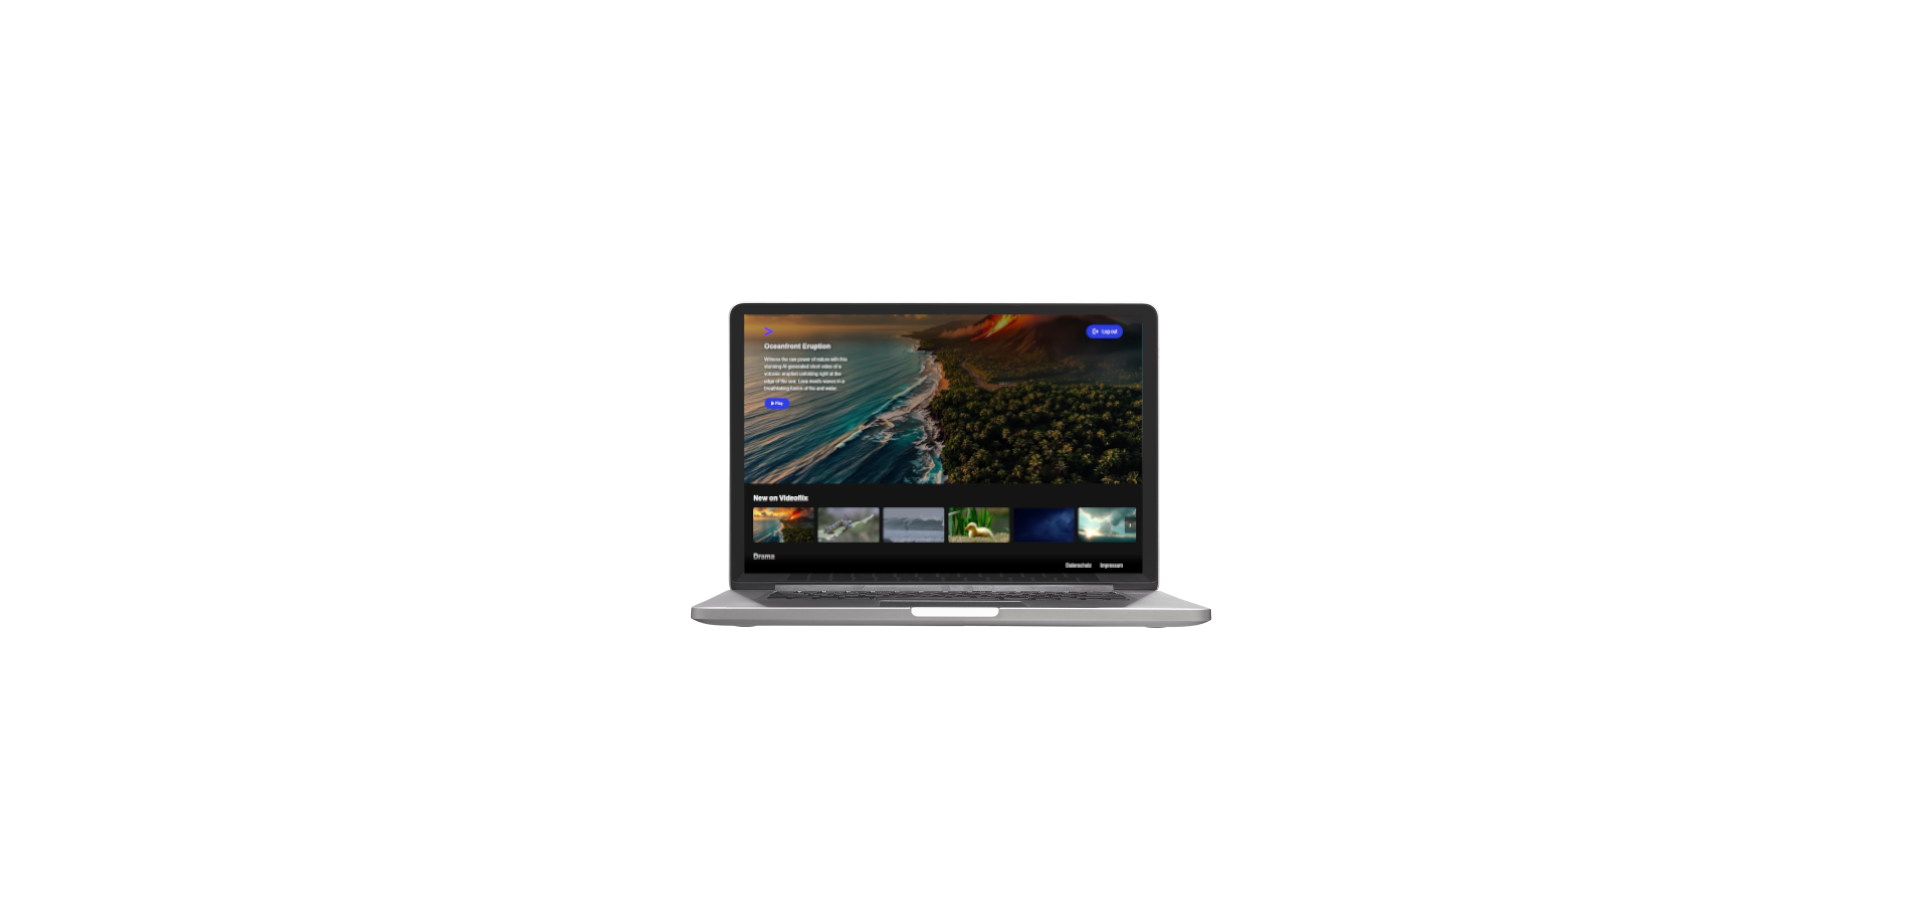
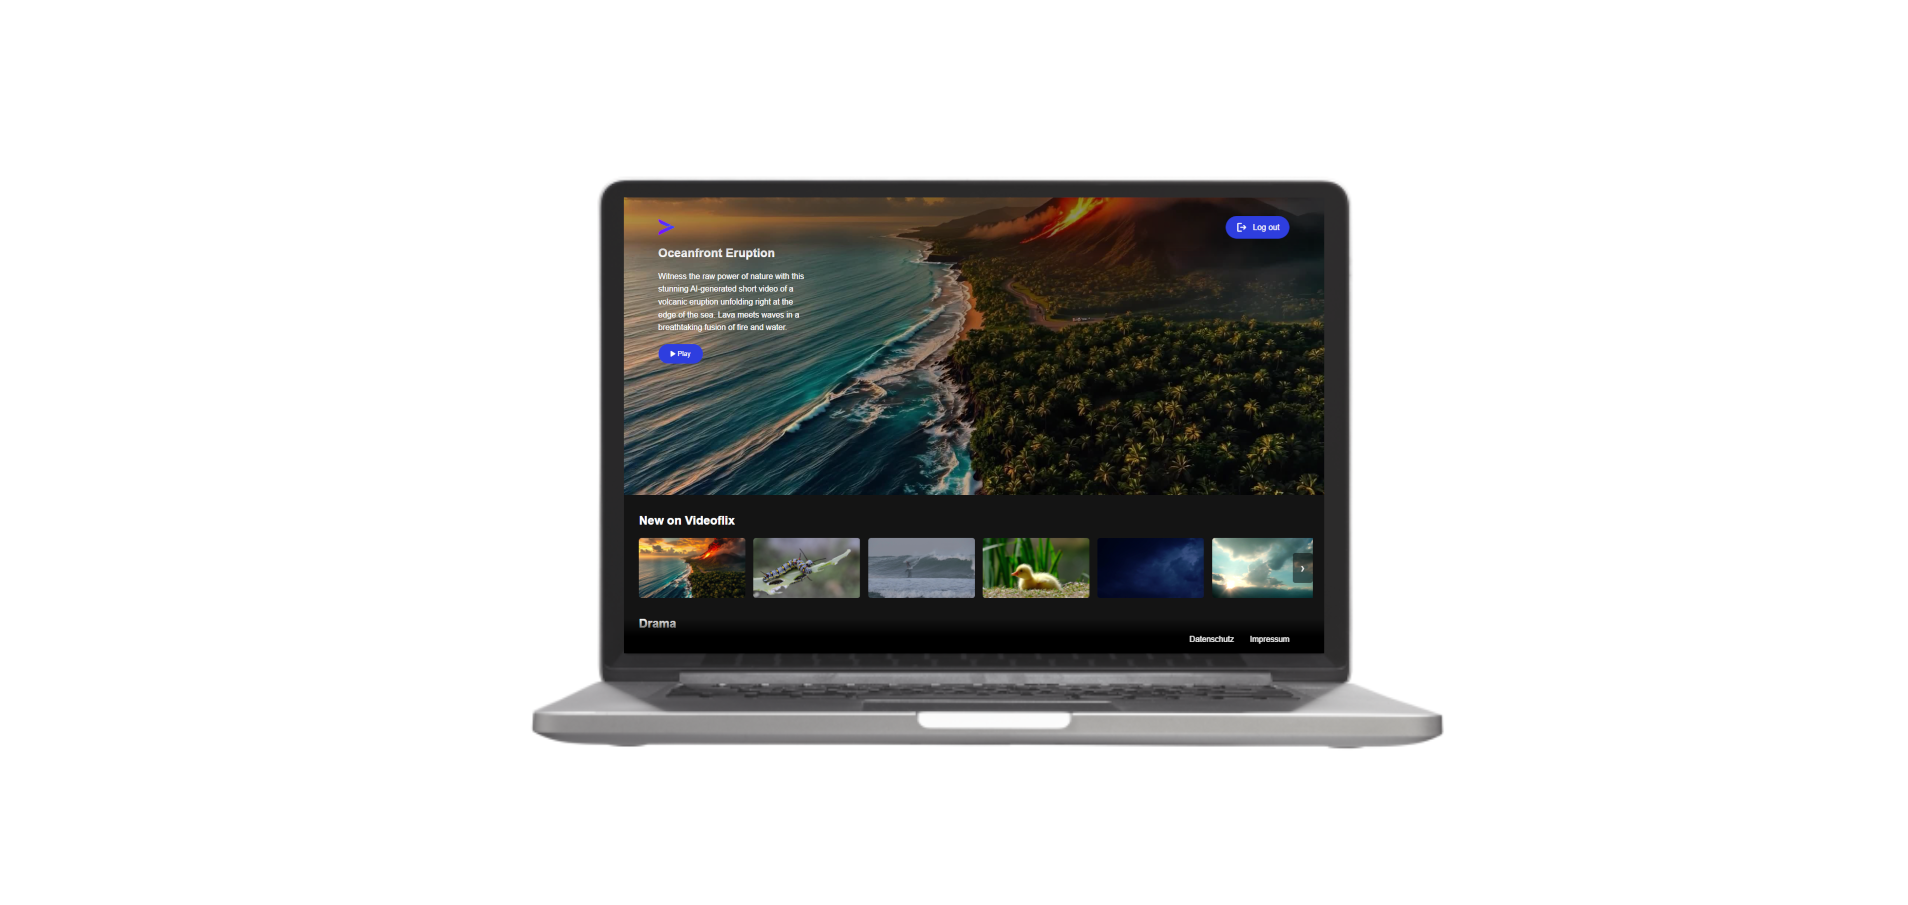
Update Videoflix tech label and image

Changed region(s): [[0.2783, 0.1856, 0.7731, 0.8354]]

diff --git a/src/app/projects/projects.component.html b/src/app/projects/projects.component.html
@@ -88,7 +88,7 @@
       <div class="projectEven" data-aos="fade-right">
         <div class="projectTextEven">
           <h4>Videoflix</h4>
-          <h5>Python | Django REST Framework | Angular</h5>
+          <h5>Python | Django / DRF | Angular</h5>
           <p>
             {{ getCurrentText("videoflixText") }}
           </p>
